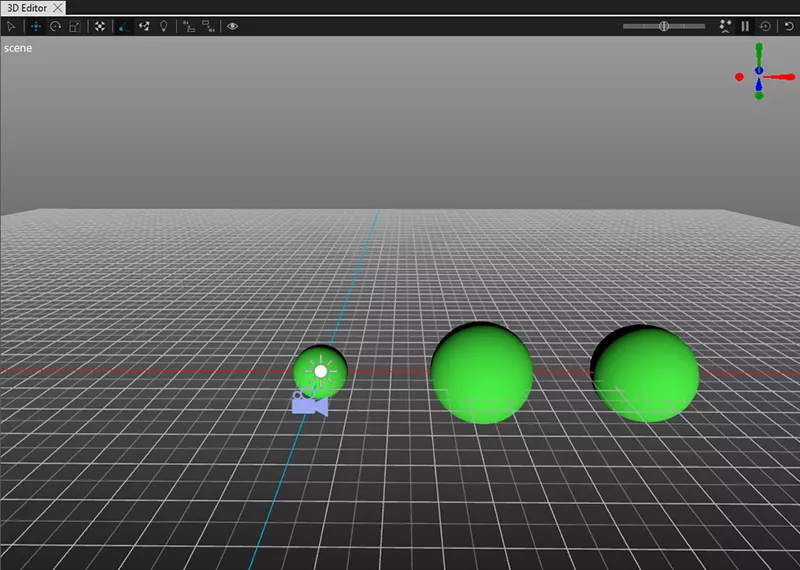
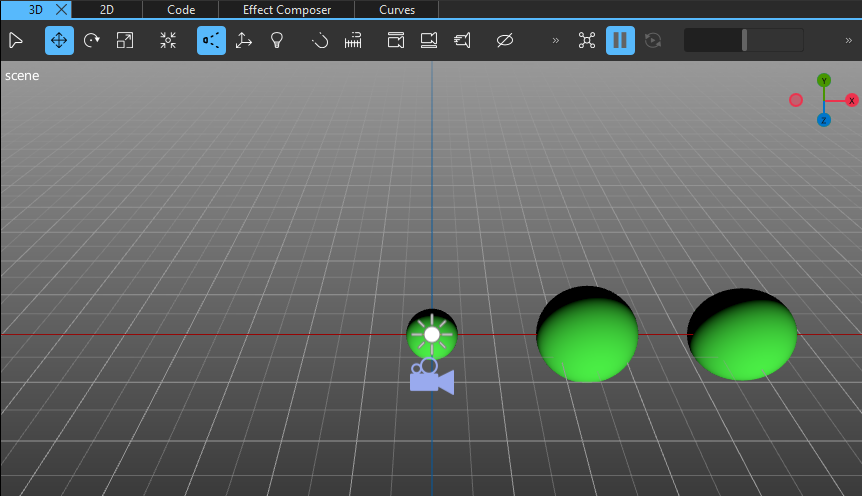
Doc: Update the 3D Repeater docs
- Changed the name of the component from Repeater3D to 3D Repeater
since that is its name now in the UI
- some other fixes to the text
- updated images

Fixes: QDS-15160

diff --git a/doc/qtdesignstudio/config/style/qt5-sidebar.html b/doc/qtdesignstudio/config/style/qt5-sidebar.html
@@ -225,7 +225,7 @@
         <li><a>Rendering</a>
             <ul>
                 <li><a href="studio-3d-instancing.html">Instanced rendering</a></li>
-                <li><a href="studio-3d-repeater-3d.html">The Repeater3D component</a></li>
+                <li><a href="studio-3d-repeater-3d.html">The 3D Repeater component</a></li>
                 <li><a href="studio-3d-loader-3d.html">The Loader3D component</a></li>
             </ul>
         </li>
@@ -389,7 +389,7 @@
                 <li><a href="studio-3d-view.html">Views</a></li>
                 <li><a href="studio-3d-node.html">Node</a></li>
                 <li><a href="studio-3d-particles.html">Particles</a></li>
-                <li><a href="studio-3d-repeater-3d.html">Repeater3D</a></li>
+                <li><a href="studio-3d-repeater-3d.html">3D Repeater</a></li>
                 <li><a href="studio-3d-scene-environment.html">Scene Environments</a></li>
                 <li><a href="studio-skeletal-components.html">Skeletal animation</a></li>
                 <li><a href="studio-3d-texture.html">Textures</a></li>
